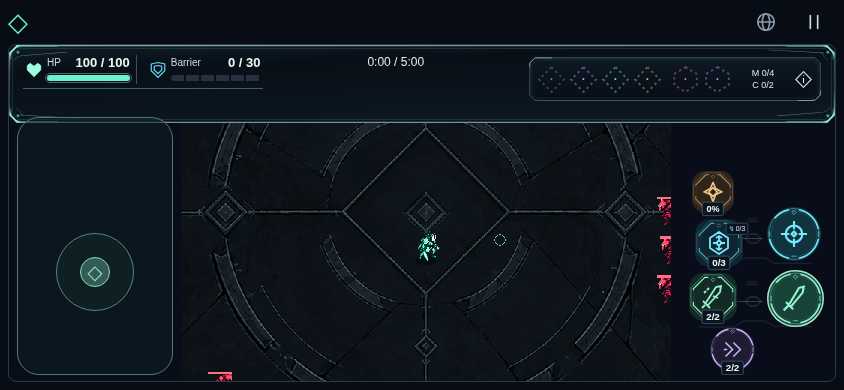
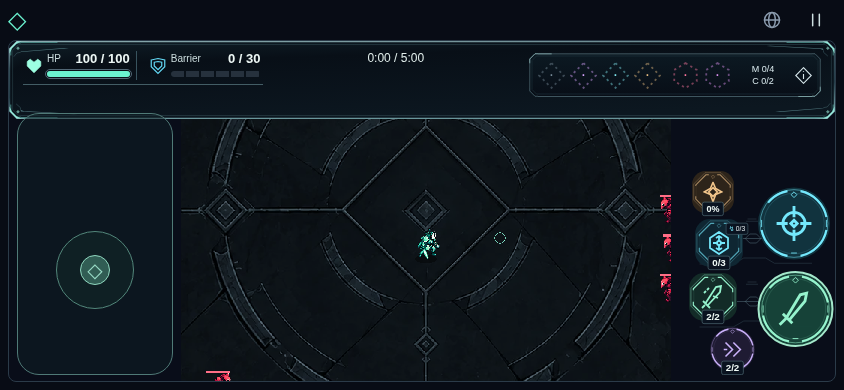
Khôi phục kích thước hai light attack và thu header mobile

diff --git a/src/style.css b/src/style.css
@@ -470,6 +470,9 @@ footer { display: none; }
 .legacy-indicator { display: block; min-width: 0; flex: 1; text-align: right; max-width: 100%; overflow: hidden; text-overflow: ellipsis; white-space: nowrap; font-size: 10px; color: #b3c5cd; }
 /* Mobile: scale the original action group as one unit, including Dash offsets. */
 .touch-enabled .touch-actions { transform: scale(.75); transform-origin: bottom right; }
+/* Restore only the two light attacks; separate them to retain their original gap. */
+.touch-enabled .shoot-button { transform: translateY(-14px) scale(1.3333333333); transform-origin: center; }
+.touch-enabled .melee-button { transform: translateY(14px) scale(1.3333333333); transform-origin: center; }
 .touch-enabled .stick-base { width: 78px; height: 78px; }
 .touch-enabled .stick-base .stick-knob { width: 30px; height: 30px; left: calc(50% - 15px); top: calc(50% - 15px); font-size: 20px; }
 @media (orientation: portrait), (min-height: 601px) {
@@ -480,15 +483,15 @@ footer { display: none; }
 
 .header-icon { display: none; width: 22px; height: 22px; fill: none; stroke: currentColor; stroke-width: 1.8; stroke-linecap: round; stroke-linejoin: round; pointer-events: none; }
 @media (max-width: 899px), (pointer: coarse) {
-  .masthead { height: 44px; }
+  .masthead { height: 40px; }
   .brand > div { display: none; }
-  .brand .sigil { font-size: 26px; }
+  .brand .sigil { font-size: 24px; }
   .header-actions { gap: 4px; }
-  .header-icon { display: block; }
-  .language { position: relative; display: grid; place-items: center; width: 44px; height: 44px; }
-  .language select { position: absolute; inset: 0; width: 44px; height: 44px; opacity: 0; }
+  .header-icon { display: block; width: 20px; height: 20px; }
+  .language { position: relative; display: grid; place-items: center; width: 40px; height: 40px; }
+  .language select { position: absolute; inset: 0; width: 40px; height: 40px; min-height: 40px; opacity: 0; }
   .language:focus-within { outline: 2px solid var(--accent); outline-offset: -3px; border-radius: 4px; }
-  #pause { display: grid; place-items: center; width: 44px; height: 44px; min-width: 44px; padding: 0; border: 0; }
+  #pause { display: grid; place-items: center; width: 40px; height: 40px; min-width: 40px; min-height: 40px; padding: 0; border: 0; }
   #pause .header-text, #pause .resume-icon { display: none; }
   #pause[data-paused='true'] .pause-icon { display: none; }
   #pause[data-paused='true'] .resume-icon { display: block; }

diff --git a/HANDOFF.md b/HANDOFF.md
@@ -10,9 +10,10 @@ Thiết lập nền tảng agent/handoff, chuẩn hóa game specification và tr
 Đưa prototype từ functional demo thành một action roguelike vertical slice có combat feel thỏa mãn, Fractured Geometry art và các cơ chế tương tác thực sự có chiều sâu.
 
 ## ACTIVE TASK
-Tối ưu mobile theo user duyệt concept scale75% và yêu cầu thu header chỉ icon ngày2026-10-27. Acceptance: giữ nguyên vị trí tương đối6nút, Dash dưới Heavy; lane portrait216px; header44px icon-only nhưng giữ language/pause/resume và vi/en; kiểm runtime touch/desktop, build/tests và deploy. Không đổi gameplay/Q9A accepted hoặc mở Q9B.
+Follow-up mobile ngày2026-10-27: chỉ đưa2light attack Shoot/Melee về kích thước cũ72/76px và thu header thêm44→40px. Acceptance: nút phụ/controls lane giữ nguyên,2light không chồng nhau, icon language/pause/resume còn hoạt động; build/typecheck và browser4viewports, deploy. Không đổi gameplay/Q9A accepted hoặc mở Q9B.
 
 ## MOBILE LAYOUT STATUS
+- Follow-up mới: counter-scale riêng Shoot/Melee về72/76px trong parent75%, dịch từng nút±10.5screenpx theo chiều dọc để giữ gap11.5px, không chồng nhau; icon light cũng về38px. Bốn nút phụ giữ nguyên bounding rect so9c5666b. Header40px/icon20px/brand24px, lane216px giữ nguyên. PASS build/typecheck và browser320/390/844touch+1440desktop (geometry/nooverflow/pause-locale-resume/CDPhold-release-cancel). Screenshot/checks đã cập nhật, chưa kiểm thiết bị thật; không chạy lại gameplay suite vì chỉ CSS. Đang commit/push/Pages follow-up; số44px và scale cả6nút dưới đây là baseline lượt trước.
 - Concept đã duyệt qua “oki, thu nhỏ header ở mobile luôn, chỉ giữ lại icon là được”: `/workspace/generated_images/exec-c2875c60-87ae-42bc-a40f-81db3d3874c1.png`; [prompt/provenance](docs/mobile-layout-concept.md). User bác bản dịch Dash; chỉ scale toàn cụm75%, không chuyển Dash.
 - Đã đồng bộ remote main9db8191; giữ toàn bộ Q9A accepted/legacy indicator. Implementation: transform toàn cụm75% giữ offset, Dash45px vẫn dưới Heavy; lane portrait216px/joystick204px, ring78px. Header mobile44px icon-only; language giữ native select44px, pause/resume có aria-label/title vi/en và icon theo phase. Desktop header giữ100px. Portrait arena tăng84px (68controls+16header); landscape header giảm4px, giữ side lanes.
 - PASS typecheck/build và20testfiles trên baseline mới. [Runtime screenshots/checks](docs/mobile-layout-runtime/README.md):320×740,390×844,844×390 touch+1440×900 desktop; không overflow/error, đúng scale45px Dash/không lấn Heavy, canvas lane riêng, pause→locale→resume vi/en và CDPmove+shoot hold/release, Heavy/Charged/Dash cancel. Browser fixture dừng loop để đo layout, không là natural run/deviceFPS hay user playtest. Chưa iOS/Safari/thiết bị thật. Vite chunk warning có sẵn.

diff --git a/docs/mobile-layout-runtime/README.md b/docs/mobile-layout-runtime/README.md
@@ -1,5 +1,7 @@
 # Mobile layout — runtime sau scale75%
 
+Follow-up cùng ngày: user yêu cầu chỉ2light attack về kích thước cũ và header gọn thêm. Screenshot/checks hiện tại là bản Shoot72px/Melee76px, header40px. Hai light dịch±10.5screenpx dọc để có gap11.5px; Charged/Heavy/Dash/Surge bounding rect không đổi so bản trước. PASS build/typecheck + browser4viewports; chưa thiết bị thật. Các số44px và scale tất cả nút dưới đây mô tả baseline trước follow-up.
+
 User duyệt concept75% và yêu cầu header mobile chỉ icon ngày2026-10-27. Thay đổi CSS/markup trên main9db8191, giữ toàn bộ Q9A/gameplay đã accepted. Không dịch Dash, scale cả cụm kể cả offset và counters; không đổi touch aim/resource timings. Không ghi DDR từ thảo luận.
 
 ## Evidence
